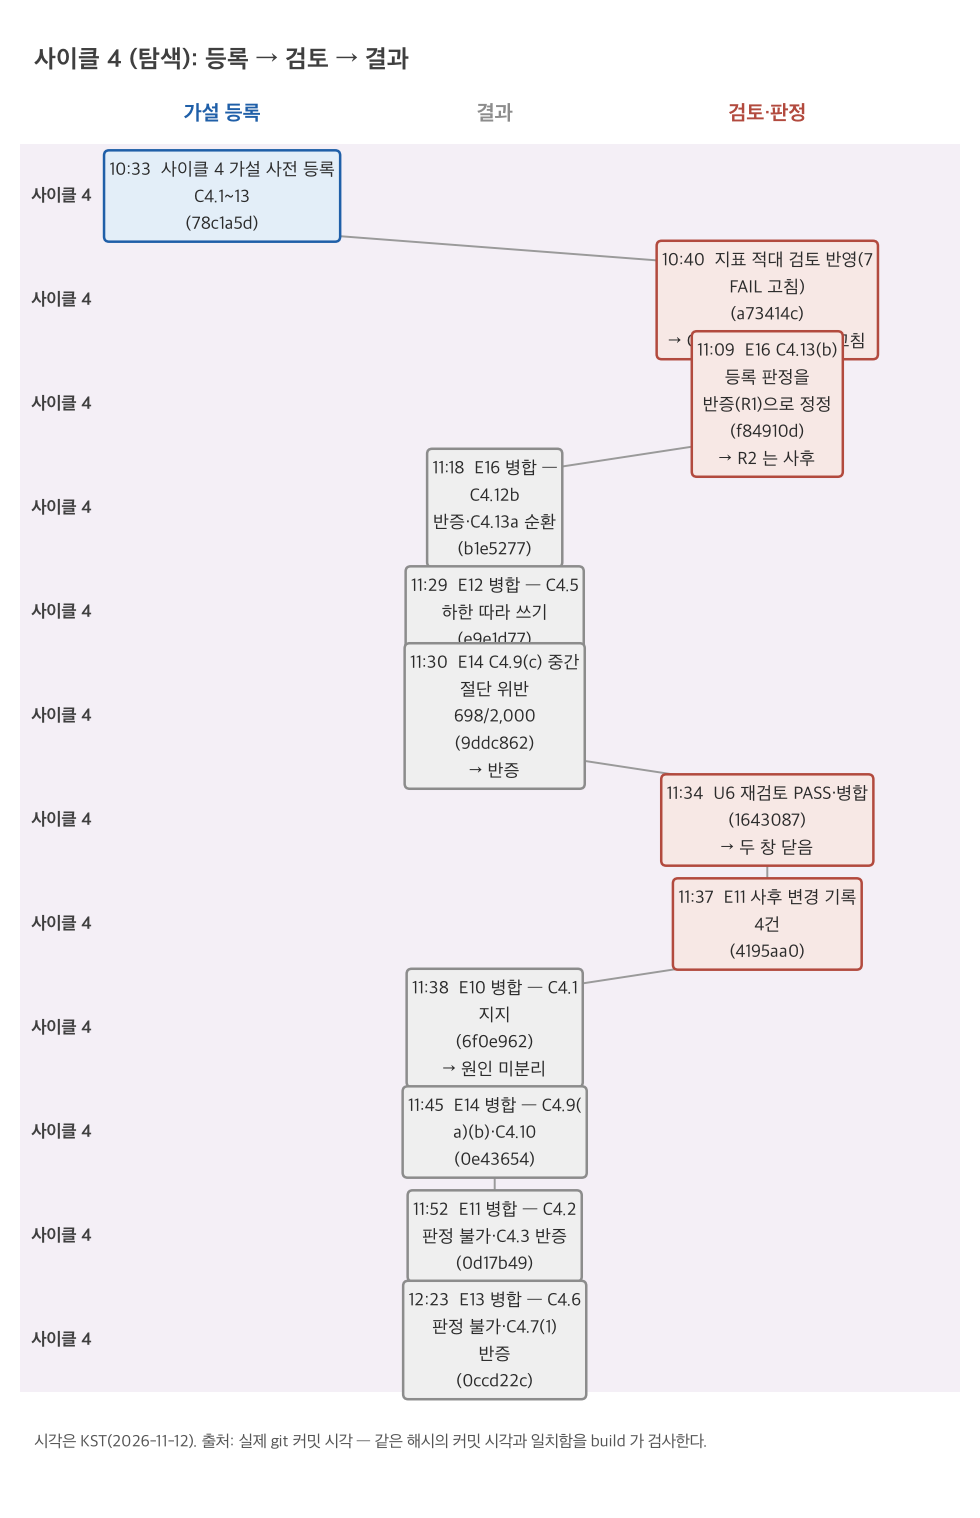
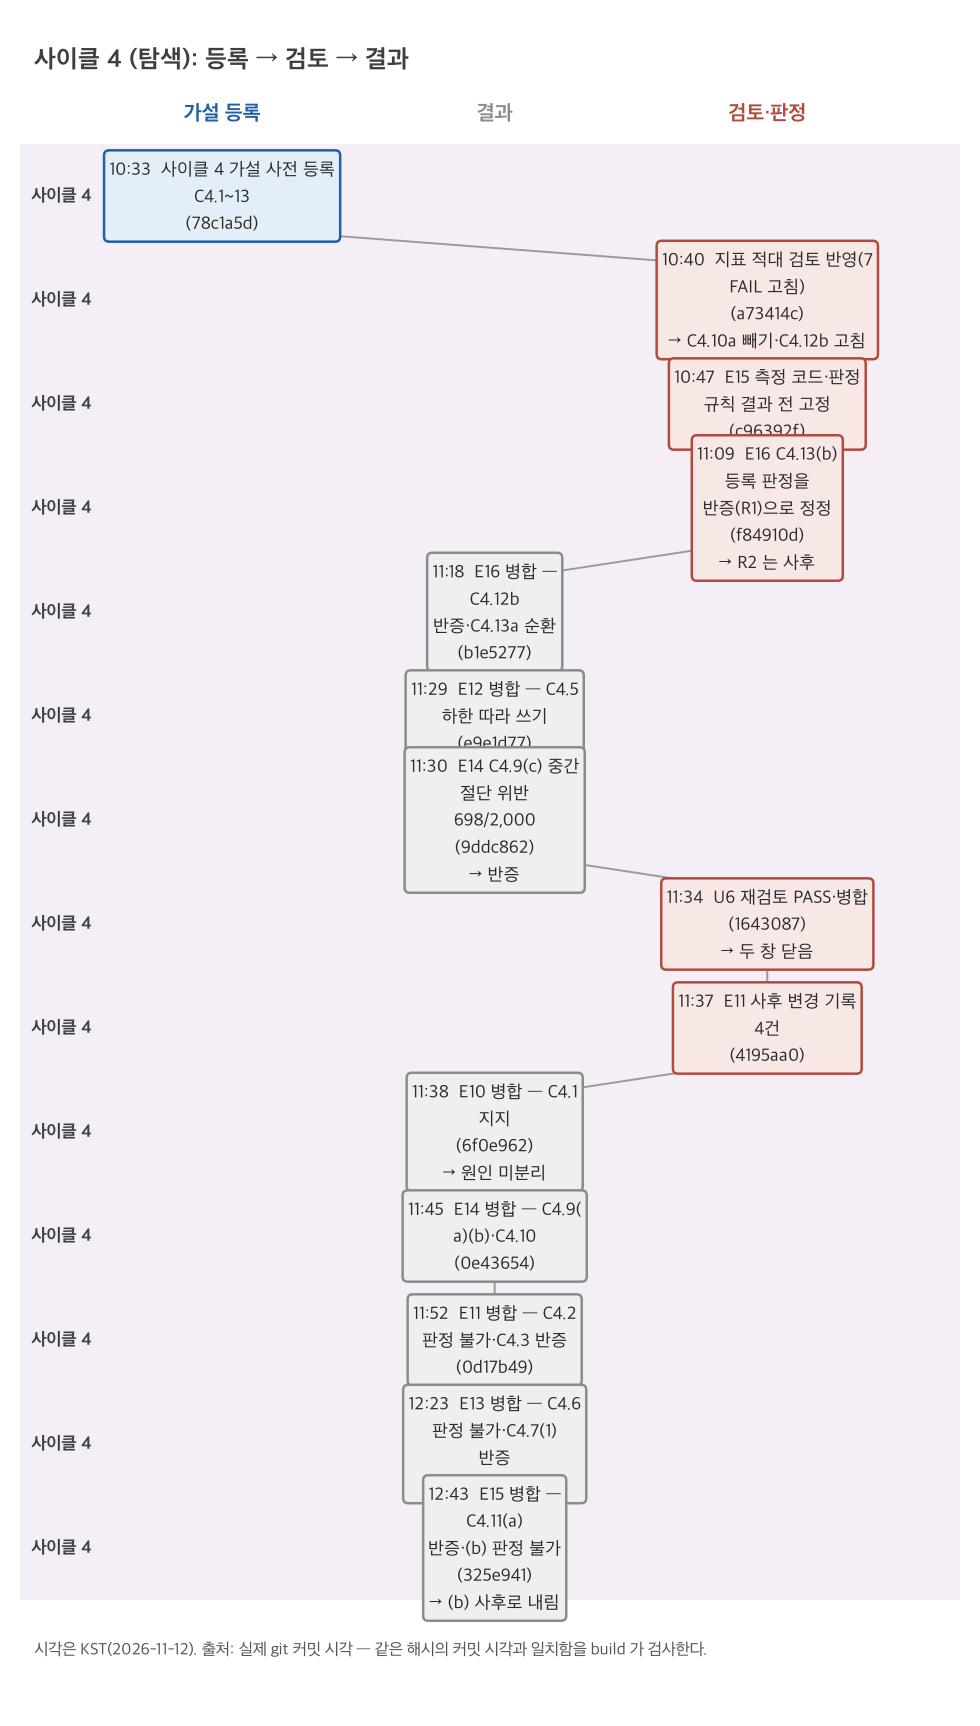
docs(kit): E15 병합 반영 — 대기 청구를 E15-01~04 로 교체(C4.11 a 구조상·부수 처치 반증, b 판정 불가, c 기술), 패널·시간선·본문 갱신

diff --git a/experiments/kit/figures.py b/experiments/kit/figures.py
@@ -719,10 +719,31 @@ def _panel_c4_e16(ax: Any) -> None:
 
 
 def _panel_c4_e15(ax: Any) -> None:
-    if load_summary("e15_mutation_recheck") is None:
+    summary = load_summary("e15_mutation_recheck")
+    if summary is None:
         _pending_panel(ax, "Q6 뮤테이션 재측정 (E15)", "대기\n(e15 결과 도착 후\n다시 만들면 채워짐)")
         return
-    _pending_panel(ax, "Q6 뮤테이션 재측정 (E15)", "결과 도착\nfigures.py 에\n패널을 추가")
+    a = summary["a"]
+    rows = [
+        ("15곳 포함(구조상)", a["collateral"]["A_all_matched_core_incl_gaps"], NEUTRAL),
+        ("A: 15곳 밖 436개", a["collateral"]["A_excl_15_ids"], LIOT_WORSE),
+        ("B: 새 연산자 223개", a["fresh"]["paired"], LIOT_WORSE),
+    ]
+    ypos = np.arange(len(rows))[::-1]
+    for y, (_label, d, color) in zip(ypos, rows, strict=True):
+        lo, hi = d["delta_ci95_pp"]
+        ax.hlines(y, lo, hi, color=color, linewidth=2)
+        ax.scatter([d["delta_pp"]], [y], s=26, color=color, zorder=3)
+        ax.text(hi + 0.15, y + 0.28, f"{d['delta_pp']:+.2f}", va="center", fontsize=7, fontweight="bold", color=color)
+    for x, text in ((2.0, "반증선 2"), (5.0, "지지선 5")):
+        ax.axvline(x, color="#999999", linewidth=0.8, linestyle=":")
+        ax.text(x + 0.08, len(rows) - 0.45, text, fontsize=6, color="#666666", va="center")
+    ax.set_yticks(ypos, [r[0] for r in rows])
+    ax.set_ylim(-0.6, len(rows) - 0.2)
+    ax.set_xlim(-0.3, 6.4)
+    ax.set_xlabel("핵심 점수 변화 (%p, 95% 구간)")
+    ax.set_title("Q6 15곳 밖은 거의 안 늘었다", loc="left", fontweight="bold")
+    ax.grid(axis="y", visible=False)
 
 
 def make_overview_cycle4() -> Path:
